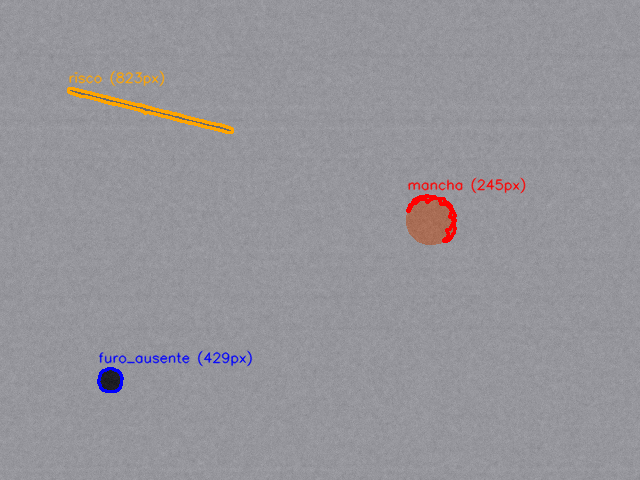
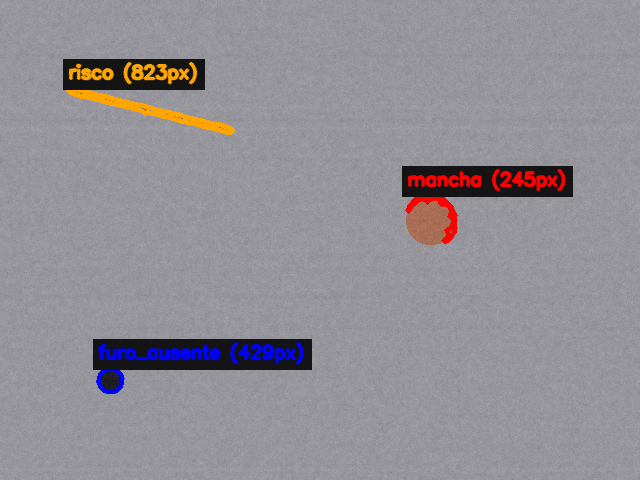
Melhora legibilidade dos rótulos no overlay de detecção
Fundo preenchido escuro atrás do texto, fonte e traço maiores, e
reposicionamento automático pra não sair da imagem nem sobrepor outro
rótulo. O texto sobreposto direto no fundo cinza da chapa ficava ilegível
quando o GitHub renderiza a imagem em ~600px de largura.

diff --git a/src/inspecao/overlay.py b/src/inspecao/overlay.py
@@ -14,22 +14,60 @@ _COR_POR_TIPO = {
 }
 _COR_PADRAO = (0, 255, 0)
 
+_FONTE = cv2.FONT_HERSHEY_SIMPLEX
+_ESCALA_FONTE = 0.6
+_ESPESSURA_TEXTO = 2
+_ESPESSURA_CONTORNO = 3
+_PADDING_ROTULO = 5
+_COR_FUNDO_ROTULO = (20, 20, 20)  # quase preto, pra contrastar com qualquer cor de classe
+
+
+def _retangulos_sobrepostos(a: tuple, b: tuple) -> bool:
+    ax1, ay1, ax2, ay2 = a
+    bx1, by1, bx2, by2 = b
+    return ax1 < bx2 and bx1 < ax2 and ay1 < by2 and by1 < ay2
+
+
+def _desenhar_rotulo(imagem: np.ndarray, texto: str, x: int, y: int, cor: tuple, ocupados: list[tuple]) -> None:
+    """Desenha `texto` com fundo preenchido perto de (x, y) e registra a caixa em `ocupados`.
+
+    (x, y) é a posição preferida da linha de base do texto. A caixa é
+    reposicionada pra não ultrapassar a borda superior nem lateral da
+    imagem, e deslocada verticalmente se colidir com um rótulo já desenhado.
+    """
+    altura_img, largura_img = imagem.shape[:2]
+    (tw, th), baseline = cv2.getTextSize(texto, _FONTE, _ESCALA_FONTE, _ESPESSURA_TEXTO)
+
+    x1 = max(x, _PADDING_ROTULO)
+    x1 = min(x1, max(largura_img - tw - 2 * _PADDING_ROTULO, _PADDING_ROTULO))
+    y1 = max(y, th + _PADDING_ROTULO)
+
+    caixa = (x1 - _PADDING_ROTULO, y1 - th - _PADDING_ROTULO, x1 + tw + _PADDING_ROTULO, y1 + baseline + _PADDING_ROTULO)
+    while any(_retangulos_sobrepostos(caixa, outra) for outra in ocupados):
+        deslocamento = (caixa[3] - caixa[1]) + 2
+        y1 += deslocamento
+        caixa = (caixa[0], caixa[1] + deslocamento, caixa[2], caixa[3] + deslocamento)
+
+    cv2.rectangle(imagem, (caixa[0], caixa[1]), (caixa[2], caixa[3]), _COR_FUNDO_ROTULO, -1)
+    cv2.putText(imagem, texto, (x1, y1), _FONTE, _ESCALA_FONTE, cor, _ESPESSURA_TEXTO, cv2.LINE_AA)
+    ocupados.append(caixa)
+
 
 def desenhar_overlay(imagem: np.ndarray, deteccoes: list[dict]) -> np.ndarray:
     """deteccoes: lista de {"tipo": str, "bbox": [x,y,w,h], "area": float, "contorno": ndarray opcional}"""
     saida = imagem.copy()
+    ocupados: list[tuple] = []
     for det in deteccoes:
         cor = _COR_POR_TIPO.get(det["tipo"], _COR_PADRAO)
         x, y, w, h = det["bbox"]
 
         contorno = det.get("contorno")
         if contorno is not None:
-            cv2.drawContours(saida, [contorno], -1, cor, 2)
+            cv2.drawContours(saida, [contorno], -1, cor, _ESPESSURA_CONTORNO)
         else:
-            cv2.rectangle(saida, (x, y), (x + w, y + h), cor, 2)
+            cv2.rectangle(saida, (x, y), (x + w, y + h), cor, _ESPESSURA_CONTORNO)
 
         rotulo = f"{det['tipo']} ({int(det['area'])}px)"
-        origem_texto = (x, max(y - 6, 12))
-        cv2.putText(saida, rotulo, origem_texto, cv2.FONT_HERSHEY_SIMPLEX, 0.45, cor, 1, cv2.LINE_AA)
+        _desenhar_rotulo(saida, rotulo, x, y - 10, cor, ocupados)
 
     return saida
